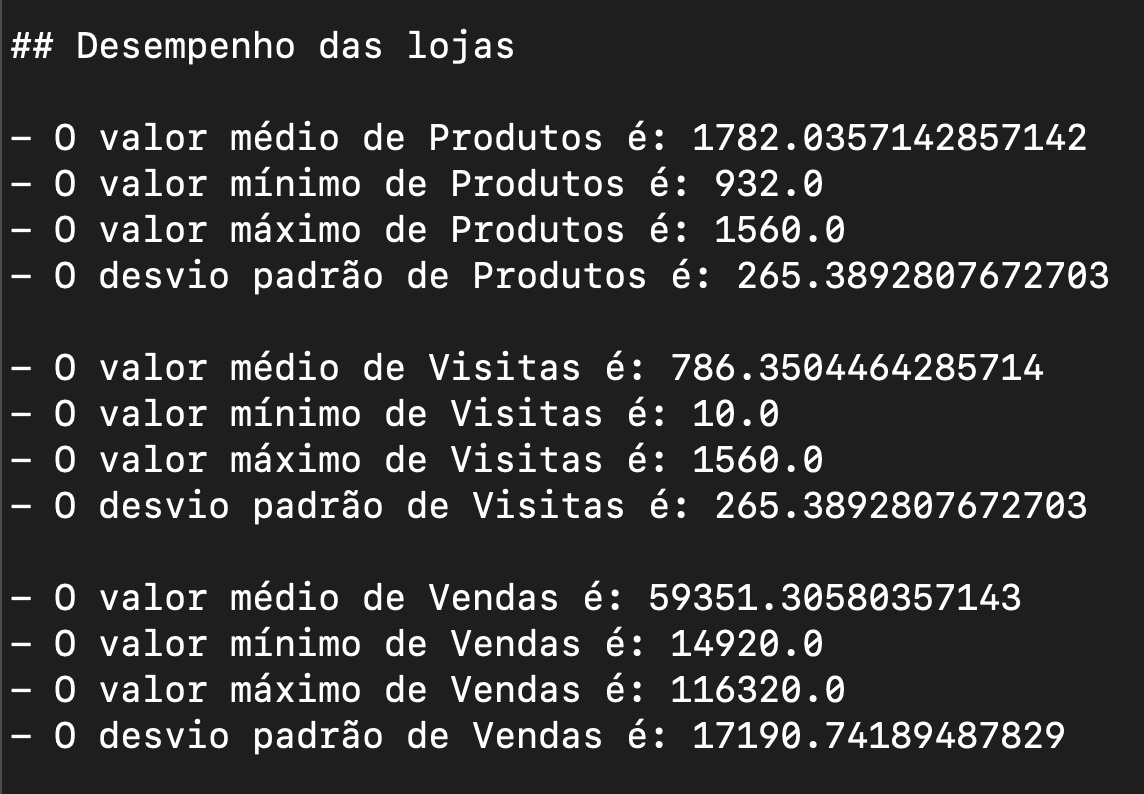
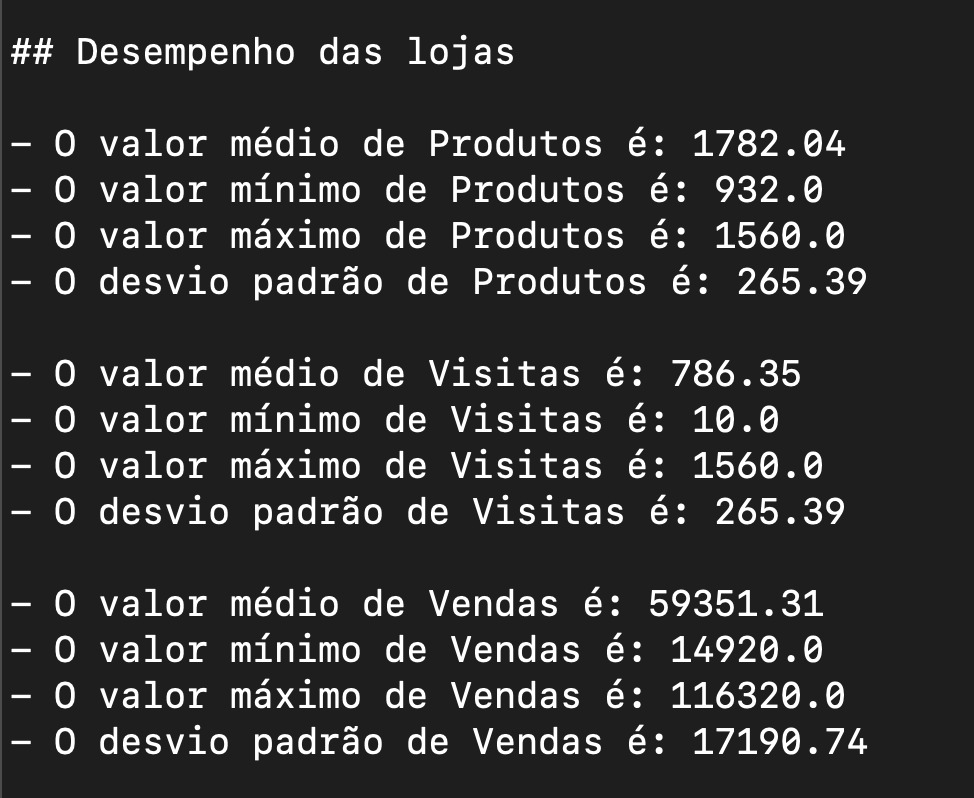
fix img

diff --git a/exercicio3.py b/exercicio3.py
@@ -18,7 +18,8 @@ def max_of(items):
 
 
 def average_of(items):
-    return float(sum(items) / len(items))
+    average = float(sum(items) / len(items))
+    return round(average, 2)
 
 
 def get_std_deviation_built_in_lib(items):
@@ -37,7 +38,7 @@ def get_std_deviation_of(items):
 
     std_dev = sqrt(dist_avg / (len_of - 1))
 
-    return std_dev
+    return round(std_dev, 2)
 
 
 def split_csv_file():
